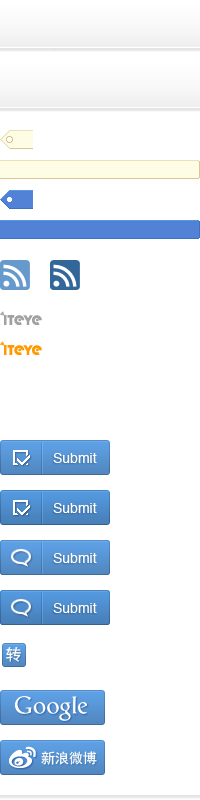
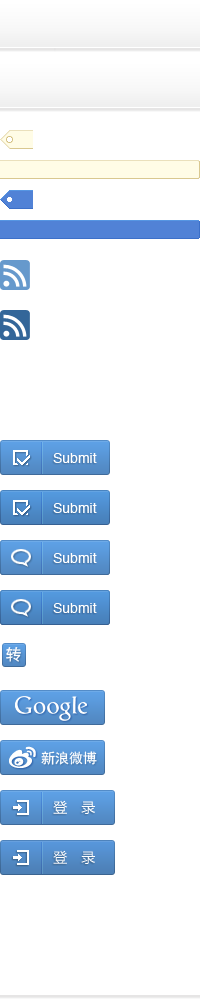
ui tweak, add rss subscribe

diff --git a/public/skins/default/content.css b/public/skins/default/content.css
@@ -50,11 +50,14 @@ body{ background:#bebebe url(bg.gif);}
 .con em{padding:0 3px; margin:0 3px; background:#f60; color:#fff;}
 .con .lost_search{padding:140px 40px 140px 160px; font-size:16px; min-height:100px; background:url(search.png) no-repeat 80px 115px ;}
 .tit .edit,
+.tit .markdown,
 .tit .del{ display:block; float:right; width:24px; height:24px; margin-left:20px; background:url(y.png) no-repeat;}
 .tit .edit{ background-position:2px -78px;}
 .tit .del{background-position:2px -158px;}
+.tit .markdown{ background-position:0 -856px;}
 .tit .edit:hover{ background-position:2px -118px;}
 .tit .del:hover{background-position:2px -198px;}
+.tit .markdown:hover{ background-position:0 -886px;}
 
 .text{padding:30px 40px; font-size:14px; min-height:120px;}
 .text .img{ margin-bottom:10px; text-align:center;}
@@ -73,7 +76,7 @@ body{ background:#bebebe url(bg.gif);}
 .con .info .comment:hover{ background-position:0 -453px; color:#f60;}
 
 /*right*/
-.right{ width:200px; float:left; background:#fff url(x.png) repeat-x 0 -795px; margin-top:-5px; padding:20px; margin-bottom:20px;border-radius: 0 0 5px 5px;-webkit-border-radius:  0 0 5px 5px;-moz-border-radius:  0 0 5px 5px;-khtml-border-radius:  0 0 5px 5px; box-shadow: 0px 1px 2px #999;}
+.right{ width:200px; float:left; background:#fff url(x.png) repeat-x 0 -995px; margin-top:-5px; padding:20px; margin-bottom:20px;border-radius: 0 0 5px 5px;-webkit-border-radius:  0 0 5px 5px;-moz-border-radius:  0 0 5px 5px;-khtml-border-radius:  0 0 5px 5px; box-shadow: 0px 1px 2px #999;}
 .right h3{ font-size:18px; margin-bottom:10px; font-weight:bold; color:#666;}
 .right ul{ margin-bottom:20px;}
 .right .tag { font-size:14px; line-height:16px; margin-bottom:30px;}
@@ -81,14 +84,14 @@ body{ background:#bebebe url(bg.gif);}
 .right .tag a:hover{color:#666;text-decoration:none;background-color:#fff}
 .right .tag a span {border-left: 1px solid #DDD;display: block;float: right;margin: -5px 0 -5px 5px;padding: 6px 5px;text-align: center;width: 20px;}
 .right .tag a span:hover{color:#666;text-decoration:none;background-color:#fff}
-.right .rss button{ background:url(x.png) 0 -260px; width:30px; height:30px; border:none; margin-right:5px; float:left;}
-.right .rss button:hover{ background-position: -50px -260px; }
+.right .rss a{ display:block; background:url(x.png) 0 -260px no-repeat; height:30px; line-height:30px; border:none; margin-right:5px; font-size:18px; padding-left:40px; font-weight:bold;}
+.right .rss a:hover{ background-position: 0px -310px; }
 .right .rss input{ padding-left:5px;}
 .right .hot_blog,
 .right .hot_note{ line-height:18px; margin-bottom:30px;}
 .right .hot_blog a,
 .right .hot_note a{display:block; margin-bottom:18px;}
-.right .comment a{ display:block; border-bottom:1px dotted #ddd; margin-bottom:15px; padding-bottom:5px; color:#f60;}
+.right .comment a{ display:block; border-bottom:1px dotted #ddd; margin-bottom:15px; padding-bottom:5px; color:#369;}
 .right .comment{word-break: break-all;}
 .right .user_name{ color:#666;}
 
@@ -189,3 +192,13 @@ body{ background:#bebebe url(bg.gif);}
 .pagination em{ color:#f60;}
 .pagination .disabled{ background:#ddd;}
 .pagination .disabled:hover{ background:#ddd;}
+
+/*login*/
+.login{ margin-top:20px; height:200px; mborder-radius: 5px;-webkit-border-radius: 5px;-moz-border-radius: 5px;-khtml-border-radius: 5px;background: #fff;margin-bottom: 40px;box-shadow: 0px 1px 2px #999; padding:100px 300px; text-align:center;}
+.login label{ display:inline-block; width:90px; text-align:right; padding-right:10px;}
+.login p{ margin:10px;}
+.login input{ width:196px; padding:0 5px;}
+.login input.login{ background:#ccc; height:40px; width:120px; padding:0; margin:0; background:url(x.png) no-repeat 0 -790px; mborder-radius: 0px;-webkit-border-radius: 0px;-moz-border-radius: 0px;-khtml-border-radius: 0px;box-shadow: none; border:0; margin-left:20px;}
+.login input.login:hover{ background-position:0 -840px;}
+
+.error-info{ margin-top:20px; height:200px; mborder-radius: 5px;-webkit-border-radius: 5px;-moz-border-radius: 5px;-khtml-border-radius: 5px;background: #fff;margin-bottom: 40px;box-shadow: 0px 1px 2px #999; padding:100px 300px; text-align:center; font-size:20px; font-weight:bold;}

diff --git a/app/controllers/home.rb b/app/controllers/home.rb
@@ -15,6 +15,12 @@ RobbinSite.controllers do
     render 'home/me'
   end
   
+  get :rss do
+    content_type :xml
+    @blogs = Blog.order('id DESC').limit(10)
+    render 'home/rss'
+  end
+  
   get :login, :map => '/login' do
     @account = Account.new
     render 'home/login'
